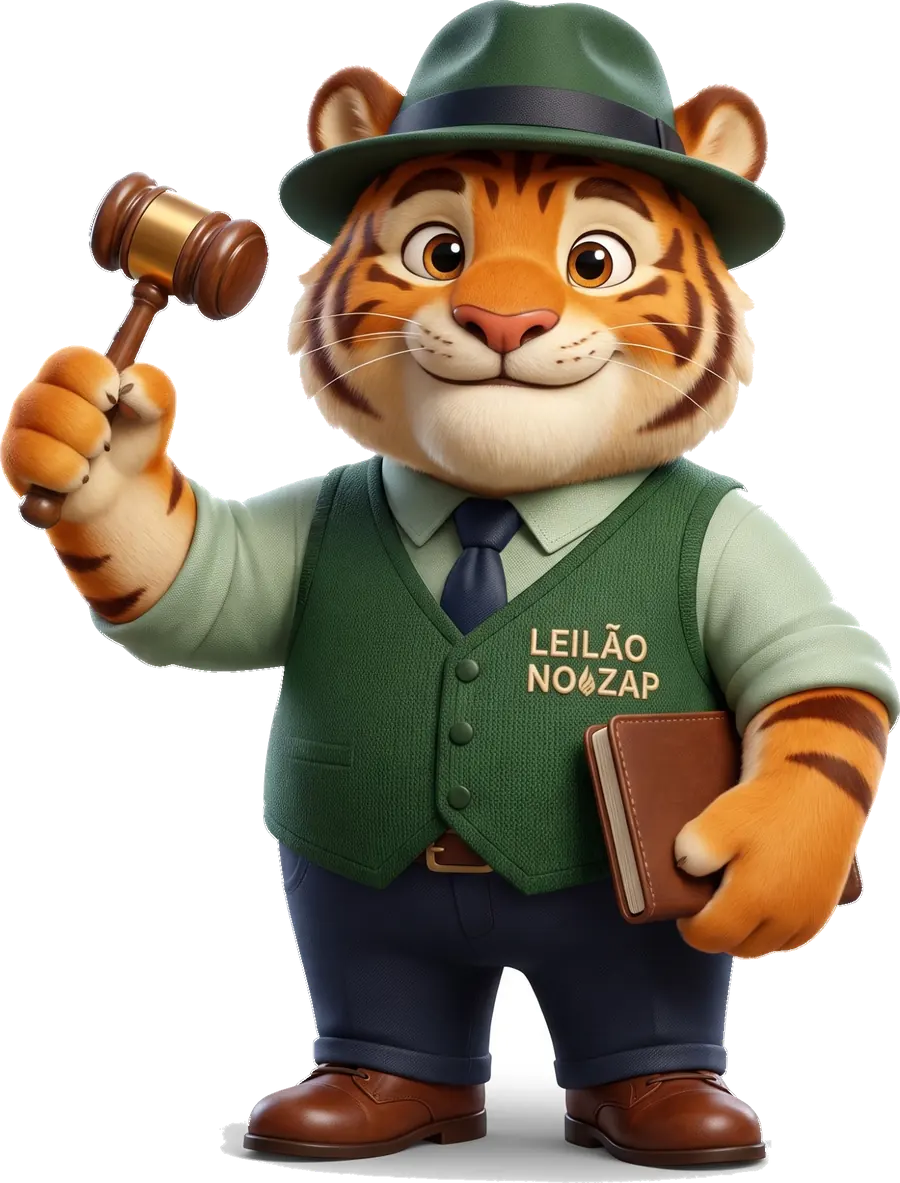
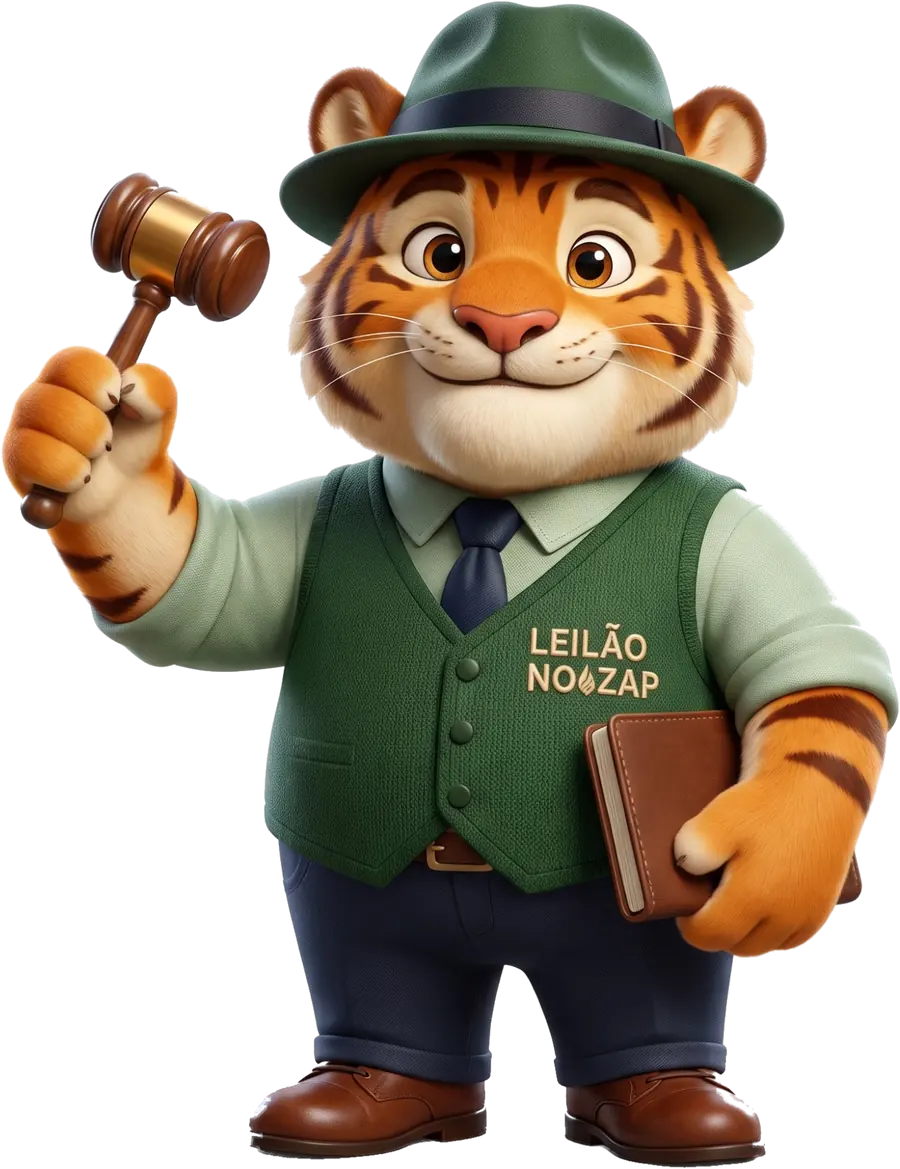
Tigre: recorte refeito, sem franja branca nem sombra cinza (#561)
A borda passa a ser calculada contra a cor real do fundo em cada ponto e
tem o branco misturado removido; a sombra do chão da imagem original sai.

Claude-Session: https://claude.ai/code/session_01RZYrZ7EATTJU3preJEfaTW

diff --git a/src/components/home/TigreNoLeilao.jsx b/src/components/home/TigreNoLeilao.jsx
@@ -58,7 +58,7 @@ function CenaDoTigre() {
           src={tigre}
           alt="O tigre da Leilão NoZap vestido de leiloeiro, com o martelo erguido"
           width={900}
-          height={1183}
+          height={1169}
           fetchPriority="high"
           decoding="async"
           className="absolute left-1/2 bottom-[9%] h-[90%] w-auto max-w-none -translate-x-1/2 drop-shadow-[0_30px_40px_rgba(0,0,0,0.55)]"
